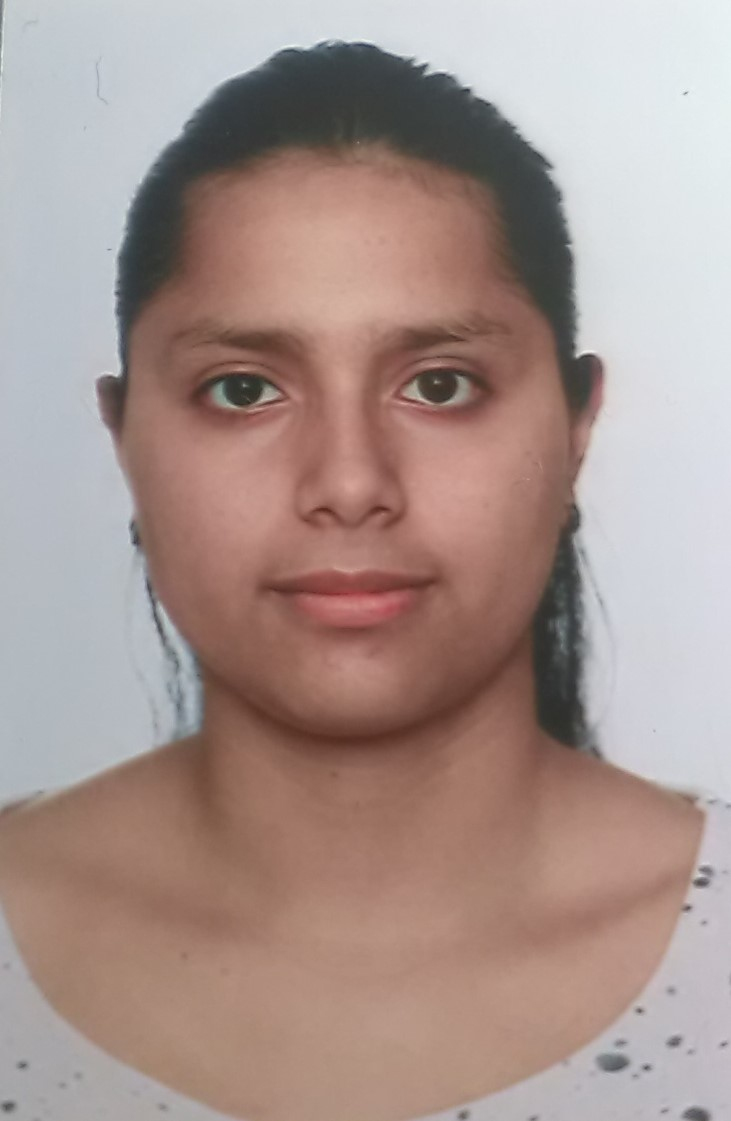
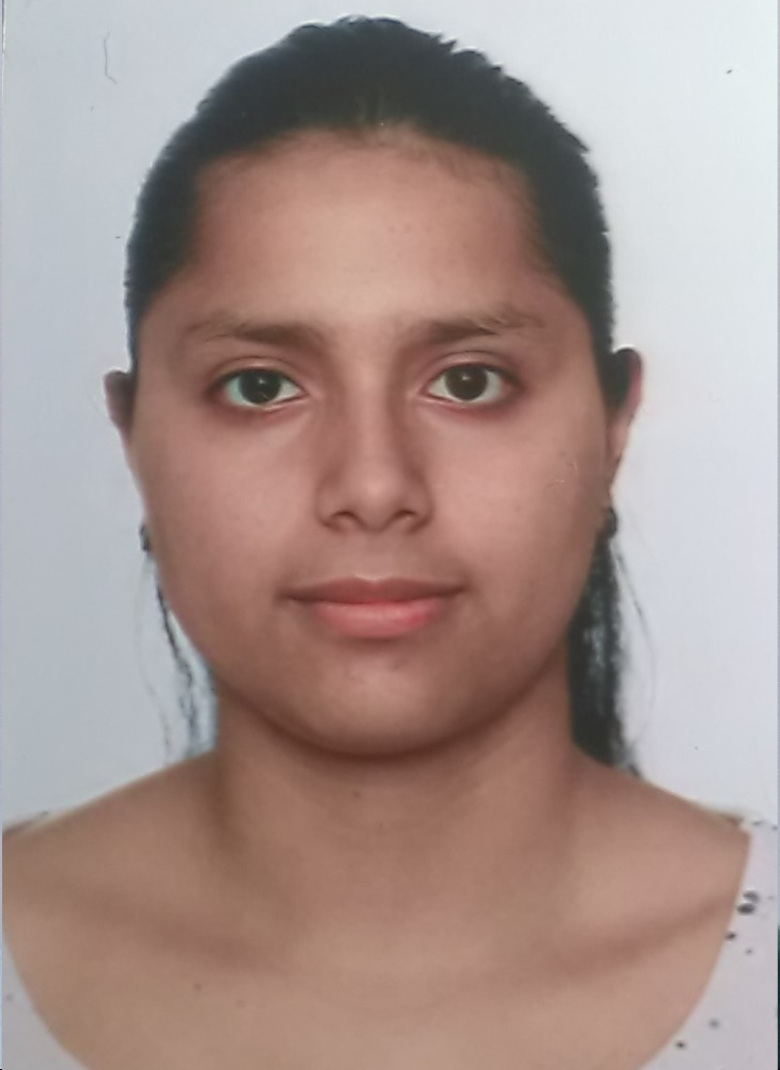
resized QuienesSomos photos

diff --git a/QuienesSomos.html b/QuienesSomos.html
@@ -80,7 +80,7 @@
                     <br>
                 </div>
             </div>
-            <div class="row row-cols-1 row-cols-md-4">
+            <div class="row row-cols-1 row-cols-md-2 row-cols-lg-4">
                 <div class=" col ">
                     <div class="card c-index " style="margin-bottom: 1em; ">
                         <img class="card-img-top " src="media/FotoAna.jpg " alt="Card image cap ">
@@ -96,7 +96,7 @@
                         <img class="card-img-top " src="media/FotoBienve.jpg " alt="Card image cap ">
                         <div class="card-body ">
                             <h5 class="card-title " style="text-align:center; ">Bienvenido</h5>
-                            <h6 class="card-text" style="text-align: center;">CARBONELL ARQUES</h6>
+                            <h6 class="card-text" style="text-align: center; font-size: 1em;">CARBONELL ARQUES</h6>
                             <p class="card-text" style="text-align: center;">10/11/1998</p>
                         </div>
                     </div>
@@ -113,7 +113,7 @@
                 </div>
                 <div class="col ">
                     <div class="card c-index " style="margin-bottom: 1em; ">
-                        <img class="card-img-top " src="media/FotoVictor.jpeg " alt="Card image cap ">
+                        <img class="card-img-top " src="media/FotoVictor.jpg " alt="Card image cap ">
                         <div class="card-body ">
                             <h5 class="card-title " style="text-align:center; ">Víctor</h5>
                             <h6 class="card-text" style="text-align: center;">ARANADA BARRIOS</h6>
